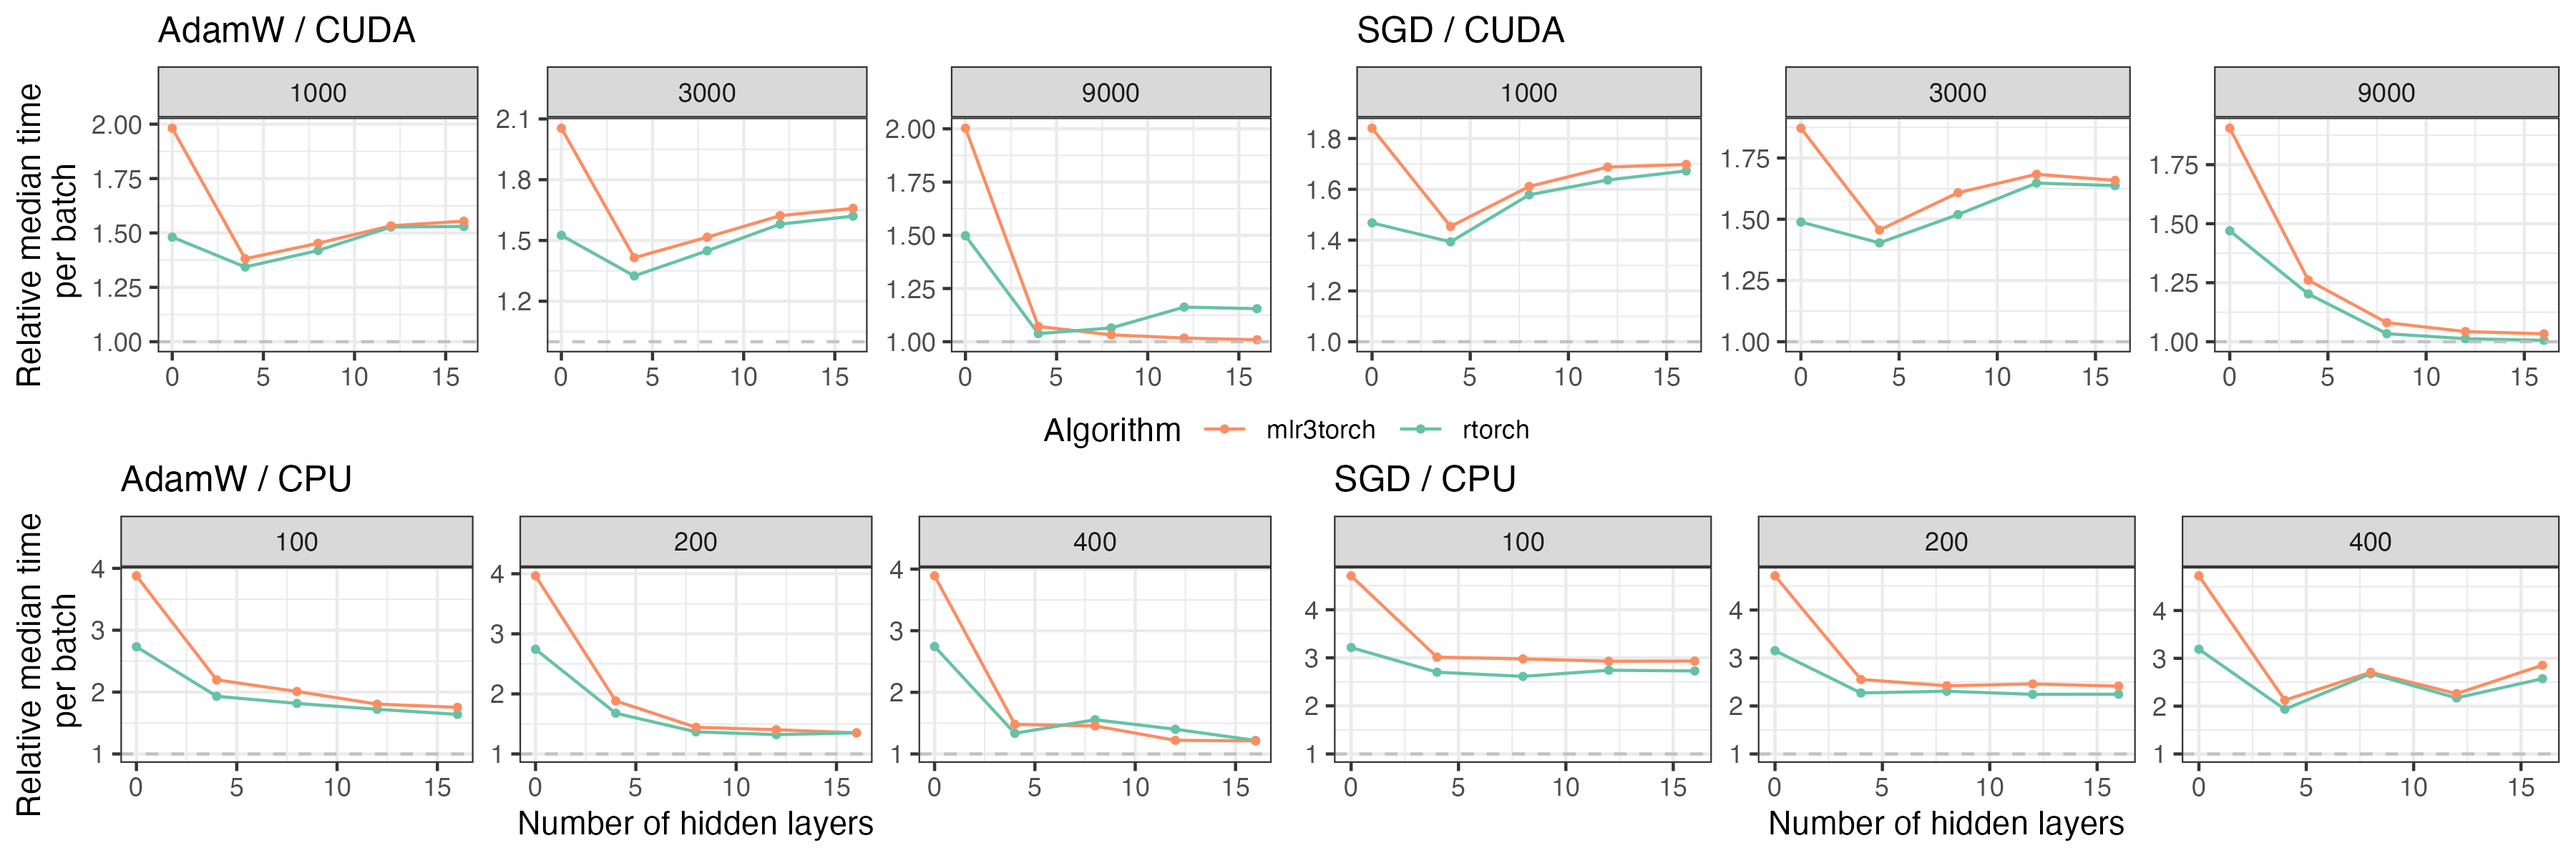
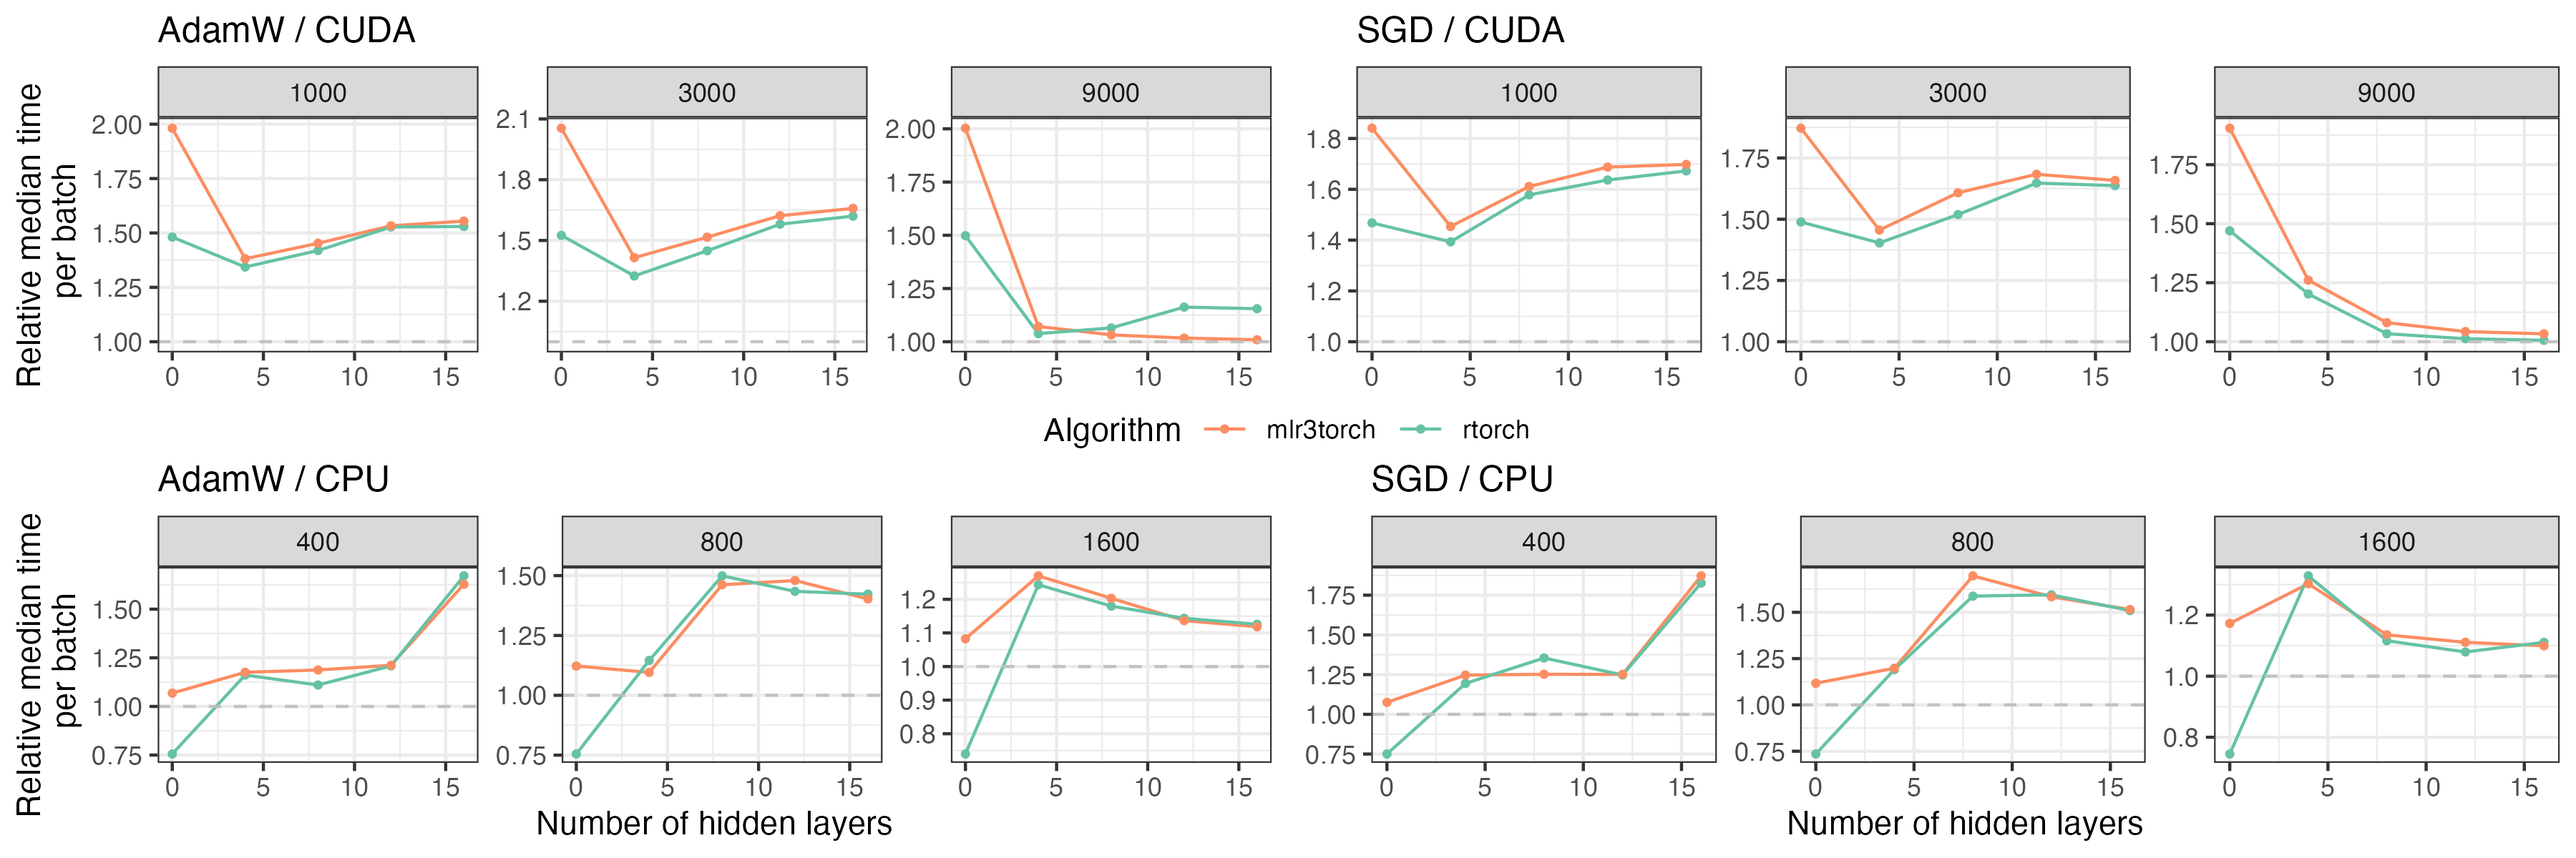
...

diff --git a/paper/README.md b/paper/README.md
@@ -153,7 +153,7 @@ Rscript benchmark/plot_benchmark.R
 Rscript benchmark/plot_optimizer.R
 ```
 
-The main figure `plot_benchmark.png` shows the single-threaded CPU results, while `plot_benchmark_cpu_threads.png` compares the CPU results for 1 and 16 threads.
+The main figures `plot_benchmark.png` and `plot_benchmark_relative.png` show the CPU results with 16 threads, `plot_benchmark_cpu_single_thread.png` (appendix of the paper) shows the single-threaded CPU results, and `plot_benchmark_cpu_threads.png` compares the CPU results for 1 and 16 threads.
 
 ## Recreating the Paper Code
 
